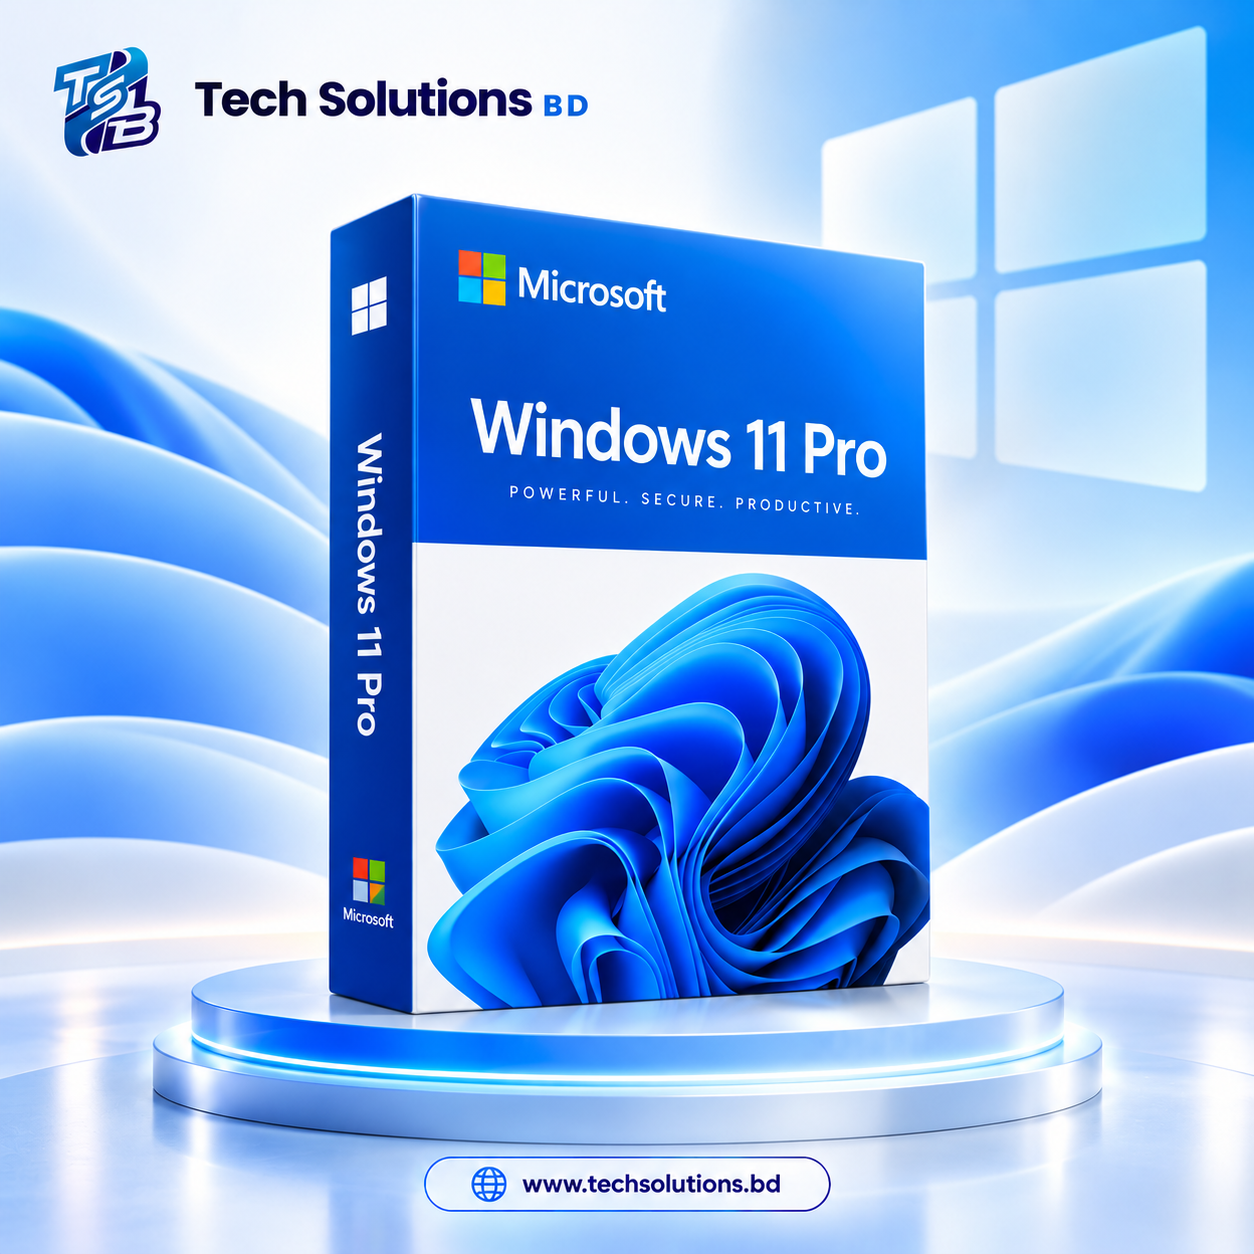
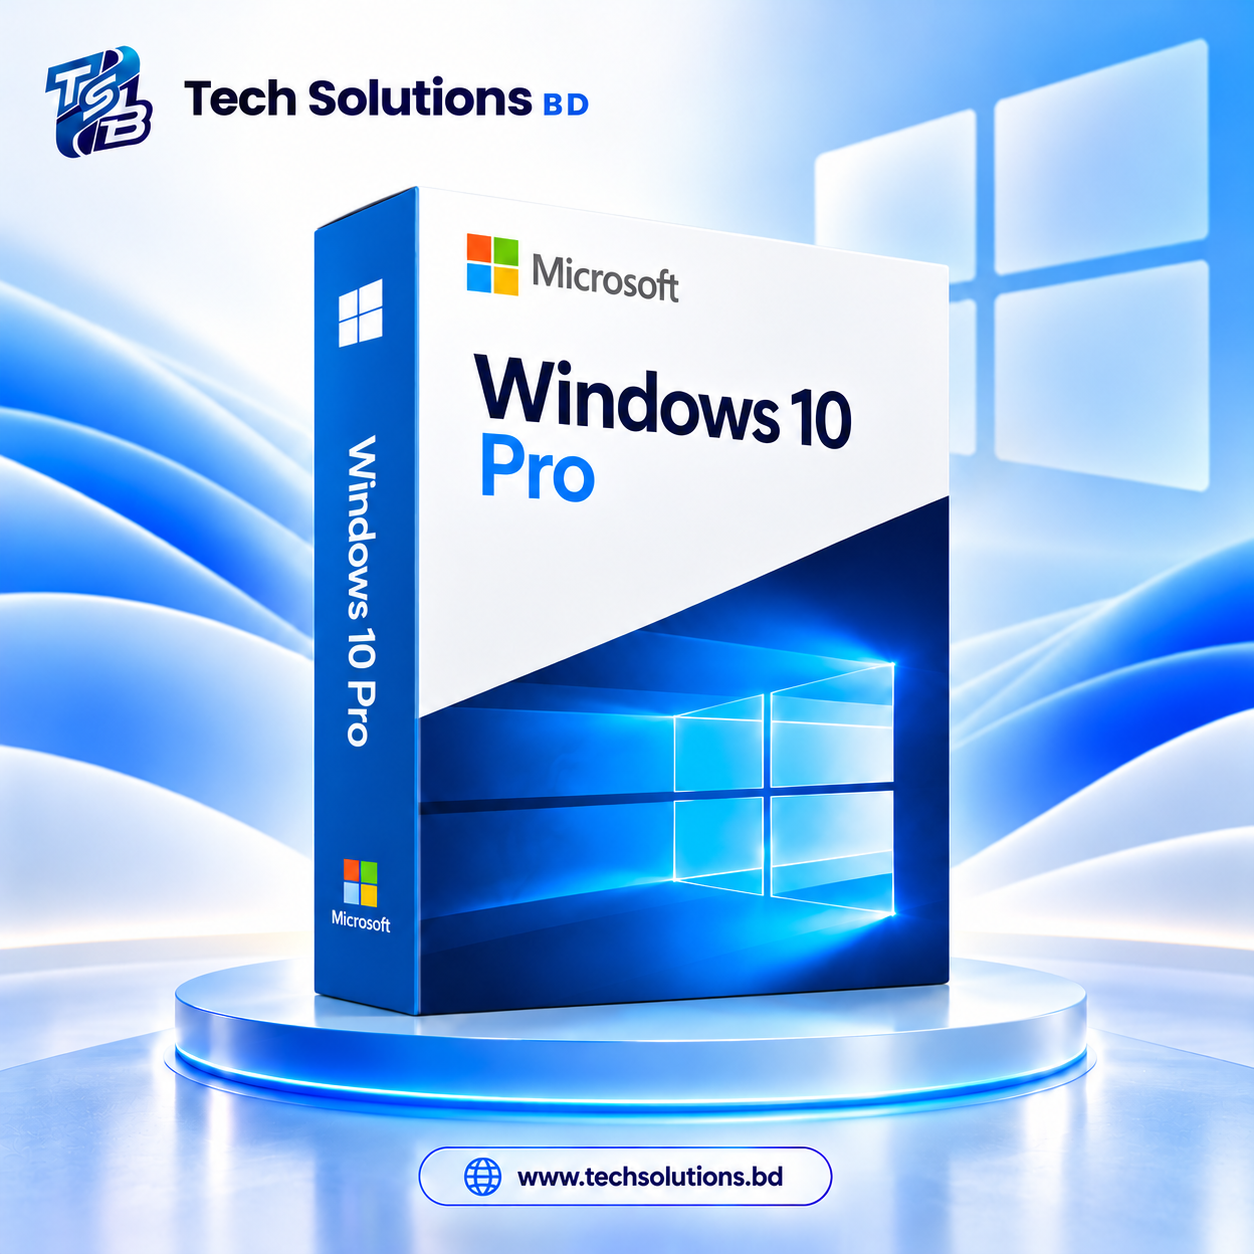
assets: update win10pro image, add Office 365 showcase asset and refresh available images list

diff --git a/src/lib/available-images.ts b/src/lib/available-images.ts
@@ -1,8 +1,5 @@
-/**
- * Complete list of all static image URLs available in public/img_content/
- * Used for admin image autocompletion, datalists, and image pickers.
- */
-export const AVAILABLE_IMG_CONTENT = [
+// Automatically generated list of all available images in public/img_content
+export const AVAILABLE_IMG_CONTENT: string[] = [
   "/img_content/acad.png",
   "/img_content/acc.png",
   "/img_content/Adobe Acrobat Tech Solutions Banner.png",
@@ -23,8 +20,10 @@ export const AVAILABLE_IMG_CONTENT = [
   "/img_content/bkash.png",
   "/img_content/canva.png",
   "/img_content/capcut.png",
+  "/img_content/CCleaner Pro Tech Solutions Banner.png",
   "/img_content/cds.png",
   "/img_content/Claude.png",
+  "/img_content/CorelDRAW Graphics Suite Promotional Banner.png",
   "/img_content/cursor.svg",
   "/img_content/dropbox.png",
   "/img_content/Duolingo Super Language Learning Poster (1).png",
@@ -49,6 +48,7 @@ export const AVAILABLE_IMG_CONTENT = [
   "/img_content/LinkedIn Premium Tech Solutions Banner.png",
   "/img_content/m365.png",
   "/img_content/McAfee Antivirus Protection Banner.png",
+  "/img_content/Microsoft Office 365 Family Showcase.png",
   "/img_content/Microsoft Outlook Tech Solutions Banner.png",
   "/img_content/Microsoft SQL Server Tech Solutions Banner.png",
   "/img_content/monedrive.png",
@@ -114,8 +114,5 @@ export const AVAILABLE_IMG_CONTENT = [
   "/img_content/Windows Server 2022 Tech Solutions Banner.png",
   "/img_content/Windows Server 2025 Data Centre Poster.png",
   "/img_content/windows.png",
-  "/img_content/zoom.png",
-] as const;
-
-export type AvailableImgPath = (typeof AVAILABLE_IMG_CONTENT)[number];
-
+  "/img_content/zoom.png"
+];
